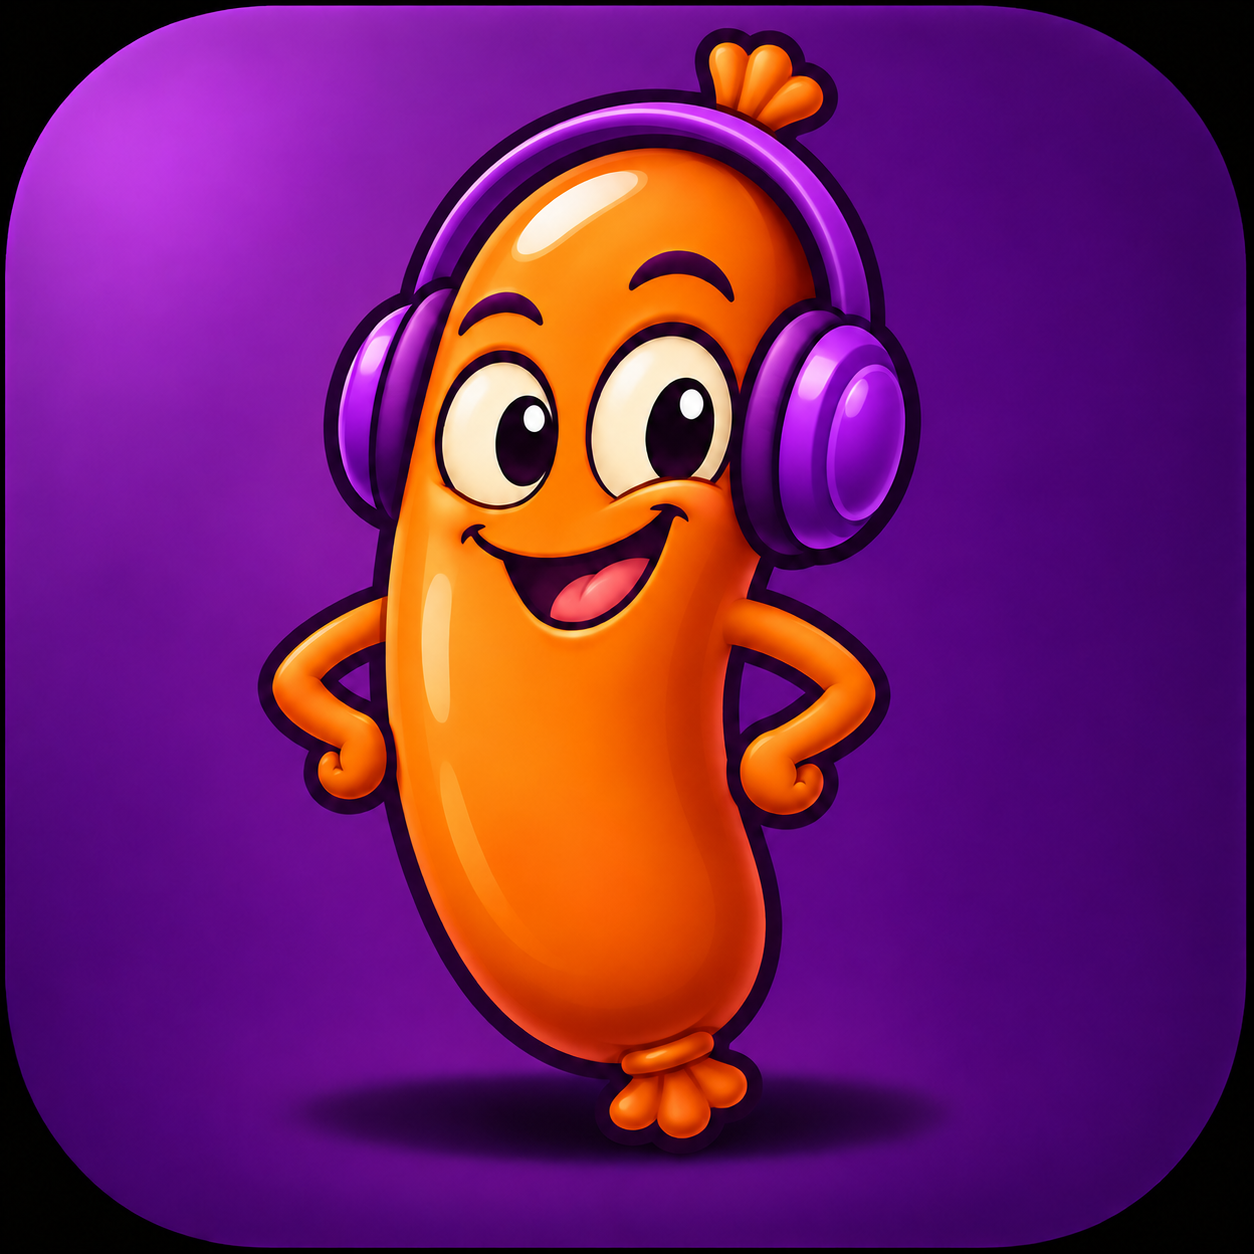
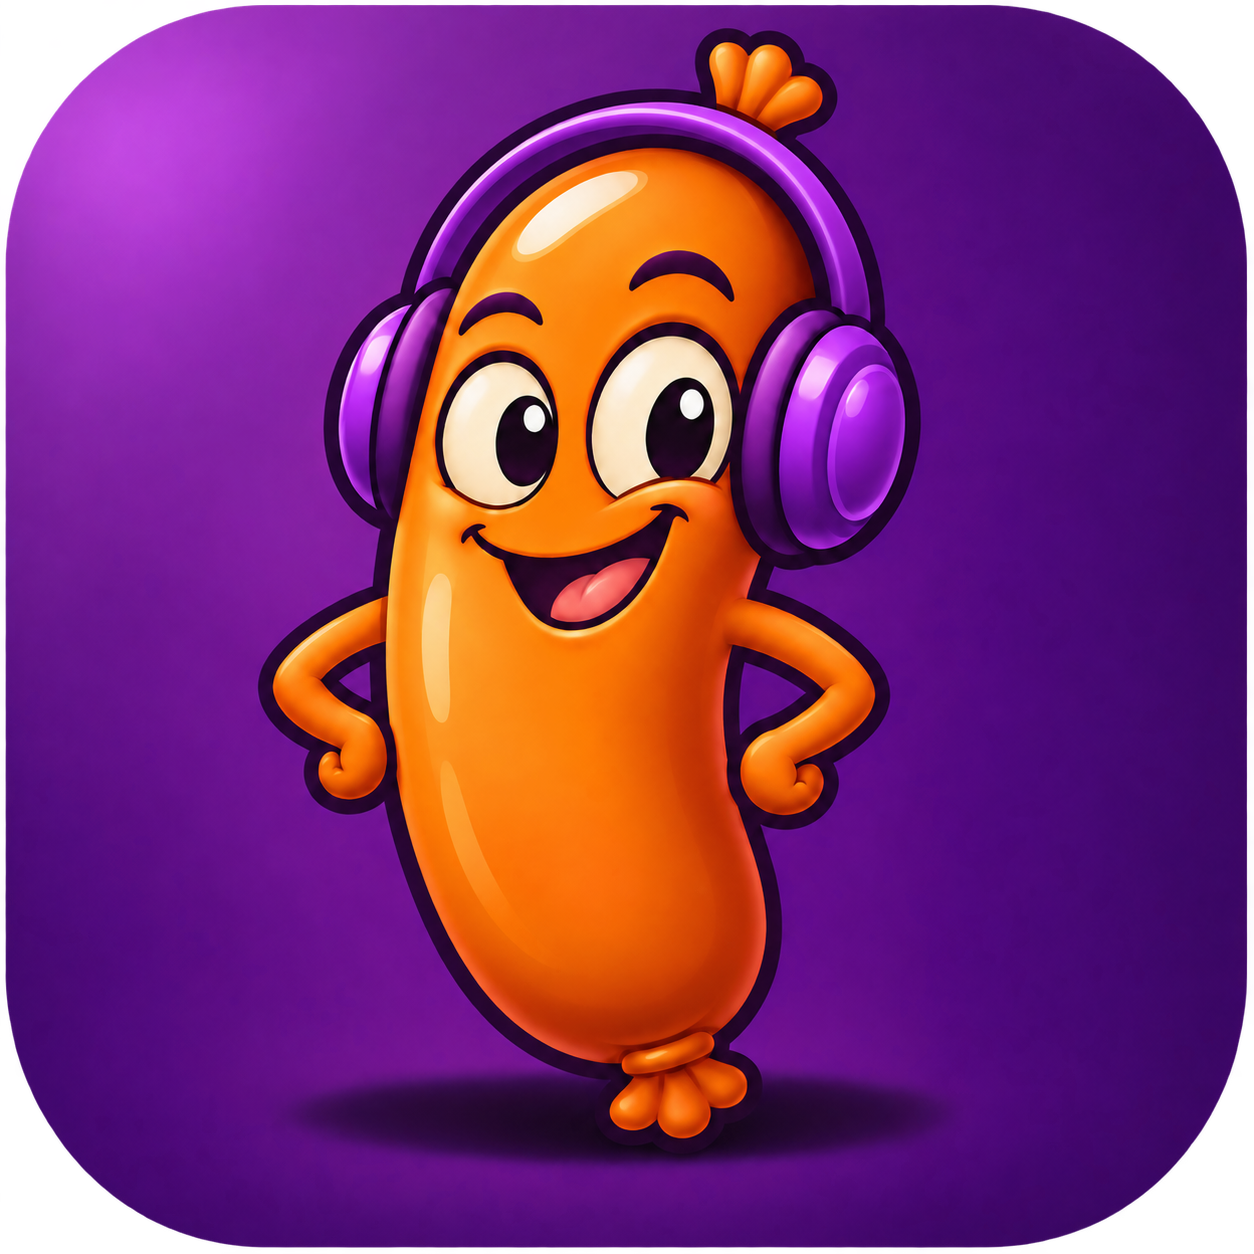
Gebruik losse worst in venstericonen en transparante hoeken voor taakbalkicoon

diff --git a/tests/test_icons.py b/tests/test_icons.py
@@ -1,0 +1,63 @@
+"""Check the rendered variants, including alpha and high-DPI icon selection."""
+import unittest
+
+from PySide6.QtCore import QSize, QTimer
+from PySide6.QtWidgets import QApplication, QMessageBox
+
+from soundsausage.icons import application_icon, mascot_icon, taskbar_icon
+from soundsausage.window import MainWindow
+
+
+class ApplicationIconTests(unittest.TestCase):
+    @classmethod
+    def setUpClass(cls):
+        cls.app = QApplication.instance() or QApplication([])
+
+    def test_caption_and_taskbar_variants_have_different_backgrounds_at_both_scales(self):
+        for ratio in (1, 2):
+            icon = application_icon(device_pixel_ratio=ratio)
+            for size in (16, 20, 24, 32, 48, 64):
+                with self.subTest(ratio=ratio, size=size):
+                    image = icon.pixmap(QSize(size, size), ratio).toImage()
+                    self.assertEqual(image.width(), size * ratio)
+                    # Left of the character, but inside the rounded tile.
+                    background = image.pixelColor(round(image.width() * .08), image.height() // 2)
+                    if size <= 24:
+                        self.assertLessEqual(background.alpha(), 10)
+                    else:
+                        self.assertGreaterEqual(background.alpha(), 240)
+                    self.assertGreaterEqual(image.pixelColor(image.width() // 2, image.height() // 2).alpha(), 240)
+
+    def test_taskbar_corners_are_transparent_and_purple_background_is_retained(self):
+        image = taskbar_icon().pixmap(128, 128).toImage()
+        for x, y in ((0, 0), (127, 0), (0, 127), (127, 127)):
+            self.assertLessEqual(image.pixelColor(x, y).alpha(), 10)
+        purple = image.pixelColor(10, 64)
+        self.assertGreaterEqual(purple.alpha(), 240)
+        self.assertGreater(purple.blue(), purple.green())
+
+    def test_mascot_has_no_tile_and_arm_openings_are_transparent(self):
+        image = mascot_icon().pixmap(1254, 1254).toImage()
+        for x, y in ((.08, .5), (.28, .54), (.61, .55)):
+            self.assertLessEqual(image.pixelColor(round(x * image.width()), round(y * image.height())).alpha(), 10)
+        self.assertGreaterEqual(image.pixelColor(round(.66 * image.width()), round(.32 * image.height())).alpha(), 240)
+
+    def test_about_dialog_uses_the_isolated_character_at_large_size(self):
+        window = MainWindow(no_audio=True)
+        captured = []
+
+        def inspect():
+            for widget in self.app.topLevelWidgets():
+                if isinstance(widget, QMessageBox) and widget.parent() is window:
+                    captured.append(widget.iconPixmap().toImage())
+                    widget.accept()
+
+        try:
+            QTimer.singleShot(0, inspect)
+            window.about()
+            self.assertEqual(len(captured), 1)
+            image = captured[0]
+            self.assertLessEqual(image.pixelColor(round(image.width() * .08), image.height() // 2).alpha(), 10)
+        finally:
+            window.close()
+            window.deleteLater()

diff --git a/src/soundsausage/icons.py b/src/soundsausage/icons.py
@@ -2,7 +2,7 @@
 from pathlib import Path
 
 from PySide6.QtCore import Qt, QPointF, QRectF
-from PySide6.QtGui import QIcon, QPainter, QPainterPath, QPen, QPixmap, QPolygonF
+from PySide6.QtGui import QGuiApplication, QIcon, QPainter, QPainterPath, QPen, QPixmap, QPolygonF
 
 
 ICON_ACTIONS = {"new", "open", "save", "save_session", "save_session_as", "undo", "redo",
@@ -10,10 +10,40 @@ ICON_ACTIONS = {"new", "open", "save", "save_session", "save_session_as", "undo"
                 "play", "pause", "stop", "loop", "mode_wave", "mode_multi", "import_audio", "mixdown"}
 PRIMARY_ACTIONS = {"open", "save", "play", "import_audio", "mixdown"}
 _CACHE = {}
+_APPLICATION_ICONS = {}
+_ASSETS = Path(__file__).with_name("assets")
 
 
-def application_icon():
-    return QIcon(str(Path(__file__).with_name("assets") / "soundsausage.png"))
+def mascot_icon():
+    """The isolated mascot for in-program artwork at any size."""
+    return QIcon(str(_ASSETS / "soundsausage-mascot.png"))
+
+
+def taskbar_icon():
+    """The purple tile with transparent outer corners for taskbars and launchers."""
+    return QIcon(str(_ASSETS / "soundsausage.png"))
+
+
+def application_icon(*, device_pixel_ratio=None):
+    """Supply small caption icons and larger taskbar icons in one native set.
+
+    Linux window managers use the same window icon property for captions and
+    taskbars. Publish both variants at their respective pixel sizes instead of
+    overriding the window with a single image that also replaces its task icon.
+    """
+    if device_pixel_ratio is None:
+        screen = QGuiApplication.primaryScreen()
+        device_pixel_ratio = screen.devicePixelRatio() if screen else 1.0
+    ratio = float(device_pixel_ratio)
+    if ratio not in _APPLICATION_ICONS:
+        small, large = mascot_icon(), taskbar_icon()
+        icon = QIcon()
+        for size in (16, 20, 22, 24, 32, 40, 48, 64, 128, 256):
+            pixels = max(1, round(size * ratio))
+            source = small if size <= 24 else large
+            icon.addPixmap(source.pixmap(pixels, pixels))
+        _APPLICATION_ICONS[ratio] = icon
+    return QIcon(_APPLICATION_ICONS[ratio])
 
 
 def draw(p, name, color):

diff --git a/src/soundsausage/window.py b/src/soundsausage/window.py
@@ -21,7 +21,7 @@ from .waveform import Waveform, clock_text
 from .multitrack import MultitrackEditor
 from .session_actions import SessionActions
 from .theme import install_theme, colors
-from .icons import ICON_ACTIONS, PRIMARY_ACTIONS, make_icon, application_icon
+from .icons import ICON_ACTIONS, PRIMARY_ACTIONS, make_icon, application_icon, mascot_icon
 
 
 FORMAT_LABELS = {
@@ -742,7 +742,12 @@ class MainWindow(SessionActions, QMainWindow):
         self.selection_changed(frame, frame)
 
     def about(self):
-        QMessageBox.about(self, "SoundSausage", f"SoundSausage · Prototype {__version__}\n\nWaveform editing and non-destructive multitrack sessions.\n\nC++ audio processing · Qt desktop interface\n\nSessions use self-contained .celp projects. A limited Cool Edit Pro 1.0 session importer is included. Recording and advanced effects are not included yet.")
+        dialog = QMessageBox(self)
+        dialog.setWindowTitle("SoundSausage")
+        dialog.setIconPixmap(mascot_icon().pixmap(96, 96))
+        dialog.setText(f"SoundSausage · Prototype {__version__}")
+        dialog.setInformativeText("Waveform editing and non-destructive multitrack sessions.\n\nC++ audio processing · Qt desktop interface\n\nSessions use self-contained .celp projects. A limited Cool Edit Pro 1.0 session importer is included. Recording and advanced effects are not included yet.")
+        dialog.exec()
 
     def closeEvent(self, event):
         if self._confirm_discard() and self.confirm_session_discard():

diff --git a/docs/ICONEN.md b/docs/ICONEN.md
@@ -1,0 +1,14 @@
+# Programma-iconen
+
+SoundSausage gebruikt twee varianten van de aangeleverde staande worst met koptelefoon:
+
+- `src/soundsausage/assets/soundsausage.png`: de paarse afgeronde tegel, met transparante buitenhoeken, voor de taakbalk, launcher en projectpagina.
+- `src/soundsausage/assets/soundsausage-mascot.png`: alleen de worst en koptelefoon, met een transparante achtergrond en transparante openingen tussen armen en lichaam, voor gebruik binnen het programma.
+
+Qt krijgt één set venstericonen: de kleine formaten van 16 tot en met 24 pixels gebruiken de losse worst; de grotere formaten vanaf 32 pixels gebruiken de paarse tegel. De schermschaal wordt bij het opbouwen meegenomen, zodat ook de kleine varianten op een scherm met dubbele schaal hun transparante achtergrond houden. De vensterbeheerder kiest uiteindelijk het formaat dat hij voor de titelbalk en taakbalk gebruikt. Het venster **About** gebruikt de losse worst expliciet, ook op groot formaat.
+
+De twee beeldbewerkingen zijn met de ingebouwde imagegen-tool uitgevoerd, op basis van het aangeleverde `SoundSausage-v2.png`. De opdrachten waren: (1) verwijder uitsluitend de achtergrond en vloerschaduw buiten de mascotte en behoud alle karakterdetails; (2) maak uitsluitend de zwarte buitenhoeken van de paarse afgeronde tegel transparant en behoud de tekening en paarse binnenkant. De oorspronkelijke referentie is niet overschreven.
+
+De tests controleren de daadwerkelijke gerenderde achtergrond, de transparante hoeken en armopeningen, de bewaarde paarse koptelefoon, beide schermschalen en het icoon in **About**. De echte desktopdecoratie is niet automatisch gecontroleerd: de geïsoleerde X-server kon in de afgeschermde omgeving geen socket openen.
+
+Qt beschrijft de selectie uit meerdere formaten in [QIcon](https://doc.qt.io/qt-6/qicon.html). Het gedeelde Linux-venstericoon en de keuzevrijheid van de vensterbeheerder staan in de [EWMH-specificatie](https://specifications.freedesktop.org/wm/latest-single/).

diff --git a/docs/STATUS.md b/docs/STATUS.md
@@ -12,6 +12,9 @@ SoundSausage is een golfvorm- en multitrackeditor voor Linux en bevindt zich in 
 - Zelfstandige CELP-projecten met ingebedde audio en WAV-mixdown.
 - Beperkte import van eenvoudige oudere sessies (`.ses`).
 - Qt-interface die het Linux-thema en de accentkleur volgt.
+- Nieuwe worstmascotte: transparant binnen het programma, een paarse tegel met transparante buitenhoeken op groter formaat. Zie [iconen](ICONEN.md).
+
+De huidige broncode doorstaat 115 geautomatiseerde tests; de [testuitvoer](validation/test-results-icons.log) is bewaard. De vier icooncontroles toetsen de daadwerkelijke transparantie, kleine en grote formaten, dubbele schermschaal en het About-venster.
 
 ## Beperkingen
 

diff --git a/README.md b/README.md
@@ -6,6 +6,8 @@ Audiobewerker voor Linux met een vertrouwde golfvorm- en multitrackweergave.
 Bewerk losse opnamen of combineer meerdere sporen. De interface volgt je eigen
 Linux-thema en accentkleur.
 
+Het programma gebruikt een losse worst in de kleine venstericonen en een paarse tegel met transparante buitenhoeken op groter formaat. Zie [de icoonvarianten](docs/ICONEN.md).
+
 ![SoundSausage met volumelijn](docs/screenshots/demo-volume-line-v03.png)
 
 SoundSausage is in ontwikkeling. De huidige versie is prototype **0.3.0**.
